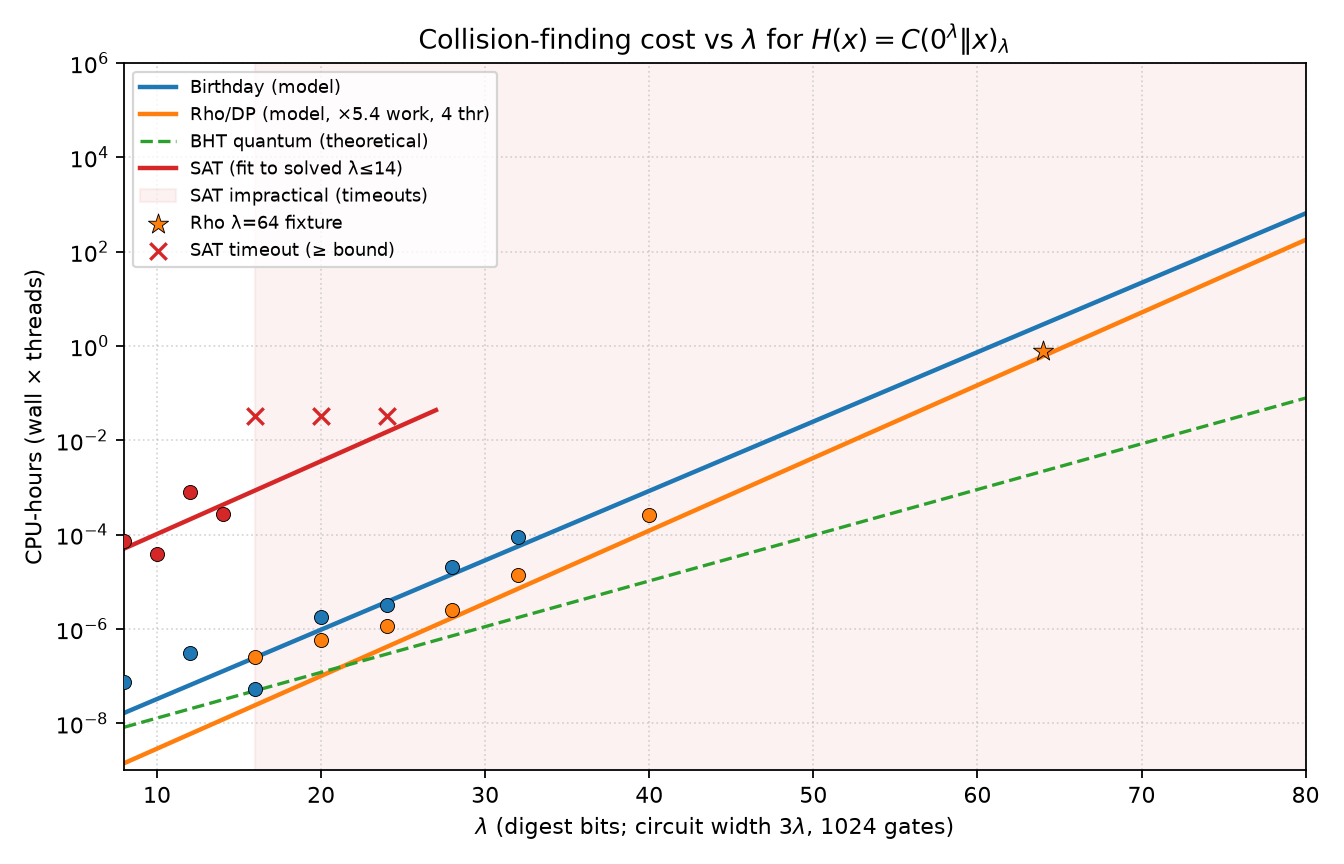
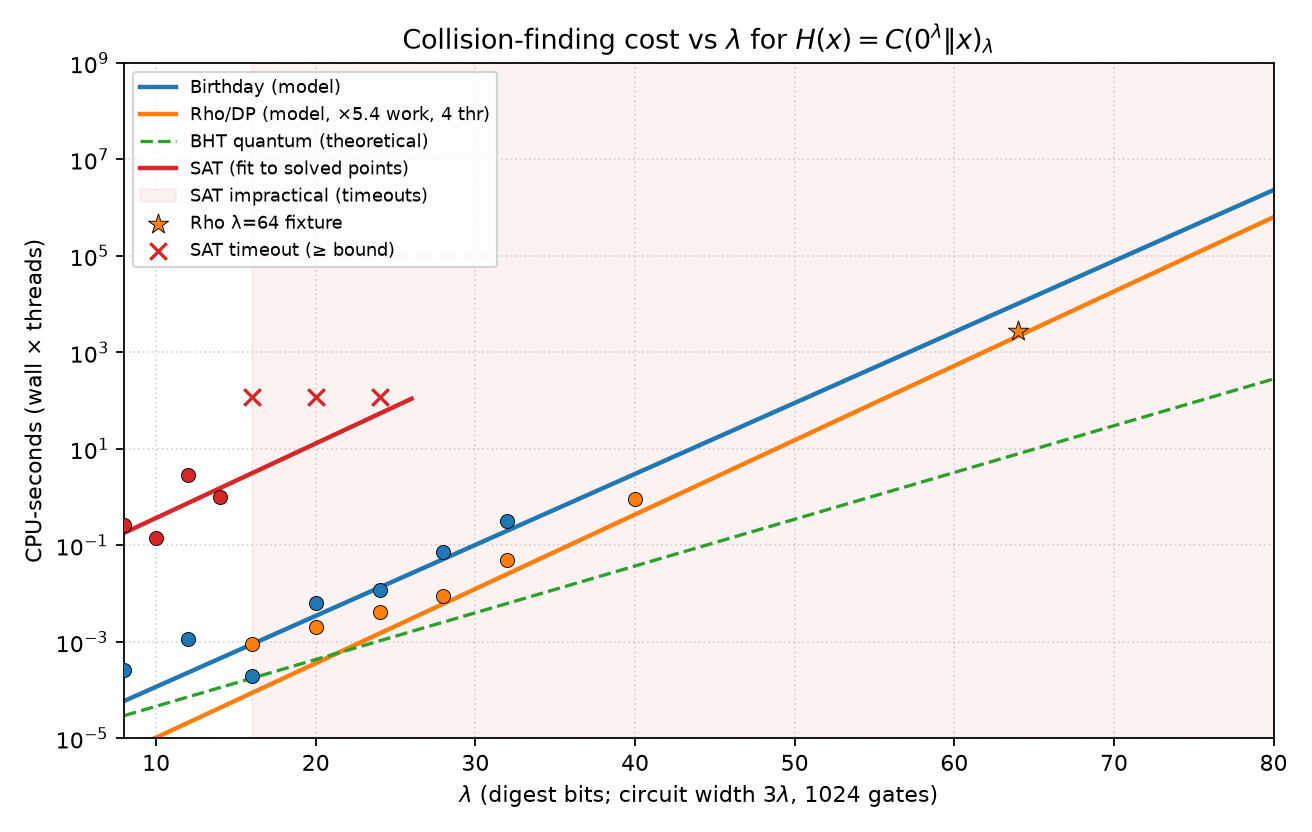
Plot collision attack costs in CPU-seconds
Regenerate the λ-sweep figure with a CPU-seconds y-axis
(wall × threads) instead of CPU-hours.

diff --git a/security_tests/collision/compare_attack_costs.py b/security_tests/collision/compare_attack_costs.py
@@ -8,7 +8,7 @@ Measures where practical and extrapolates trends:
 * SAT — dual-copy collision CNF + Glucose3
 * BHT (quantum, theoretical) — ~π·2^{λ/3}/2 evaluations as a reference
 
-CPU-hours means total core-time: wall_seconds × threads / 3600.
+CPU-seconds means total core-time: wall_seconds × threads.
 Expected classical work uses ~1.25·2^{λ/2} hash evaluations (birthday bound);
 rho uses the same leading term with an empirical overhead factor from measured
 runs. Gate count is fixed at 1024 to match the checked-in fixtures.
@@ -402,14 +402,15 @@ def plot(results: dict, out_png: Path, out_pdf: Path) -> None:
         rho_overheads.append(fx["evals"] / expected_evals(64))
     rho_overhead = float(np.median(rho_overheads)) if rho_overheads else 4.0
 
-    birthday_cpu = expected_evals(grid) / (scalar_fit * 1e6) / 3600.0  # 1 thread
+    # Plot in CPU-seconds (wall × threads).
+    birthday_cpu = expected_evals(grid) / (scalar_fit * 1e6)  # 1 thread
     # Rho: aggregate rate ≈ lane_fit * workers (each worker runs a 64-lane walk).
     rho_wall = (rho_overhead * expected_evals(grid)) / (lane_fit * workers * 1e6)
-    rho_cpu = rho_wall * workers / 3600.0
+    rho_cpu = rho_wall * workers
 
-    # SAT model: fit log(cpu_hours) ~ a + b·λ on successful points.
+    # SAT model: fit log(cpu_secs) ~ a + b·λ on successful points.
     sat_pts = [
-        (int(lam), m["cpu_hours"])
+        (int(lam), m["cpu_hours"] * 3600.0)
         for lam, m in results["measured"].get("sat", {}).items()
         if m.get("ok") and m.get("cpu_hours", 0) > 0
     ]
@@ -424,7 +425,7 @@ def plot(results: dict, out_png: Path, out_pdf: Path) -> None:
 
     # BHT quantum collision: ~π/2 · 2^{λ/3} oracle queries; plot as if each
     # query cost equaled one classical scalar eval (order-of-magnitude hint).
-    bht_cpu = (math.pi / 2.0) * (2.0 ** (grid / 3.0)) / (scalar_fit * 1e6) / 3600.0
+    bht_cpu = (math.pi / 2.0) * (2.0 ** (grid / 3.0)) / (scalar_fit * 1e6)
 
     fig, ax = plt.subplots(figsize=(8.2, 5.2))
     ax.semilogy(grid, birthday_cpu, color="#1f77b4", lw=2, label="Birthday (model)")
@@ -452,7 +453,7 @@ def plot(results: dict, out_png: Path, out_pdf: Path) -> None:
         if m.get("ok"):
             ax.scatter(
                 [int(lam)],
-                [m["cpu_hours"]],
+                [m["cpu_hours"] * 3600.0],
                 color="#1f77b4",
                 s=40,
                 zorder=5,
@@ -463,7 +464,7 @@ def plot(results: dict, out_png: Path, out_pdf: Path) -> None:
         if m.get("ok"):
             ax.scatter(
                 [int(lam)],
-                [m["cpu_hours"]],
+                [m["cpu_hours"] * 3600.0],
                 color="#ff7f0e",
                 s=40,
                 zorder=5,
@@ -473,7 +474,7 @@ def plot(results: dict, out_png: Path, out_pdf: Path) -> None:
     if results.get("fixture_rho64"):
         ax.scatter(
             [64],
-            [results["fixture_rho64"]["cpu_hours"]],
+            [results["fixture_rho64"]["cpu_hours"] * 3600.0],
             color="#ff7f0e",
             s=90,
             marker="*",
@@ -487,7 +488,7 @@ def plot(results: dict, out_png: Path, out_pdf: Path) -> None:
         if m.get("ok"):
             ax.scatter(
                 [int(lam)],
-                [m["cpu_hours"]],
+                [m["cpu_hours"] * 3600.0],
                 color="#d62728",
                 s=40,
                 zorder=5,
@@ -497,7 +498,7 @@ def plot(results: dict, out_png: Path, out_pdf: Path) -> None:
         elif m.get("phase") == "timeout":
             ax.scatter(
                 [int(lam)],
-                [m["cpu_hours"]],
+                [m["cpu_hours"] * 3600.0],
                 color="#d62728",
                 s=55,
                 marker="x",
@@ -507,12 +508,12 @@ def plot(results: dict, out_png: Path, out_pdf: Path) -> None:
             sat_timeout_labeled = True
 
     ax.set_xlabel(r"$\lambda$ (digest bits; circuit width $3\lambda$, 1024 gates)")
-    ax.set_ylabel("CPU-hours (wall × threads)")
+    ax.set_ylabel("CPU-seconds (wall × threads)")
     ax.set_title(r"Collision-finding cost vs $\lambda$ for $H(x)=C(0^\lambda\|x)_\lambda$")
     ax.grid(True, which="both", ls=":", alpha=0.5)
     ax.legend(loc="upper left", fontsize=8)
     ax.set_xlim(8, 80)
-    ax.set_ylim(1e-9, 1e6)
+    ax.set_ylim(1e-5, 1e9)
     fig.tight_layout()
     fig.savefig(out_png, dpi=160)
     fig.savefig(out_pdf)
@@ -550,7 +551,7 @@ def main() -> int:
             "gates": GATES,
             "workers": args.workers,
             "birthday_factor": BIRTHDAY_FACTOR,
-            "note": "CPU-hours = wall_seconds × threads / 3600",
+            "note": "Plot uses CPU-seconds = wall_seconds × threads; JSON keeps cpu_hours too",
         },
         "throughput": {},
         "measured": {"birthday": {}, "rho": {}, "sat": {}},

diff --git a/security_tests/collision/README.md b/security_tests/collision/README.md
@@ -129,7 +129,7 @@ solver smoke test.
 ## Cost vs λ comparison
 
 `compare_attack_costs.py` sweeps λ, measures scalar/bit-sliced throughput,
-runs birthday/rho/SAT where practical, and plots **CPU-hours**
+runs birthday/rho/SAT where practical, and plots **CPU-seconds**
 (wall × threads) against λ. Classical models use $\sim 1.25\cdot 2^{\lambda/2}$
 hash evaluations; rho includes an empirical work overhead from measured runs.
 A BHT quantum reference ($\sim 2^{\lambda/3}$ oracle queries) is drawn for scale.
@@ -148,7 +148,7 @@ Trends from that sweep (1024-gate circuits, 4 cores for rho):
 | Attack | Practical up to | Scaling hint |
 | --- | --- | --- |
 | Birthday | measured ≤32; model beyond | $\sim 2^{\lambda/2}$ / scalar Meval/s |
-| Rho/DP | measured ≤40 + λ=64 fixture | same exponent, fewer CPU-hours via lanes + threads |
+| Rho/DP | measured ≤40 + λ=64 fixture | same exponent, fewer CPU-seconds via lanes + threads |
 | SAT (Glucose3) | solved ≤14; timeouts ≥16 | poor beyond small λ on this encoding |
 | BHT (quantum, theoretical) | — | $\sim 2^{\lambda/3}$ if each query ≈ one eval |
 
